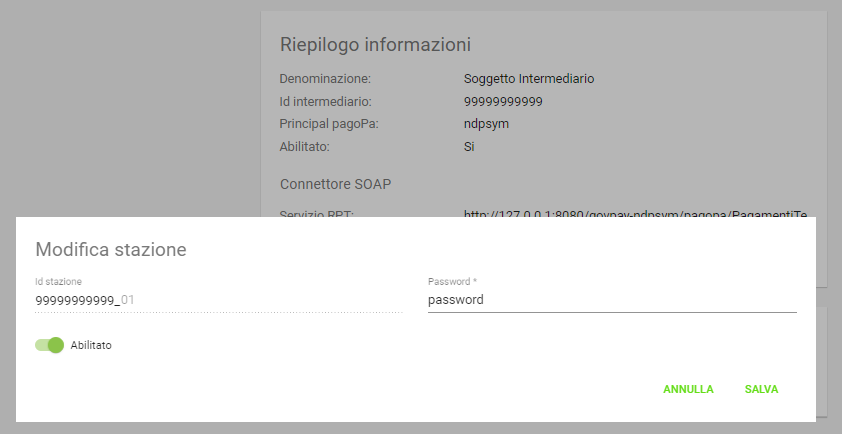
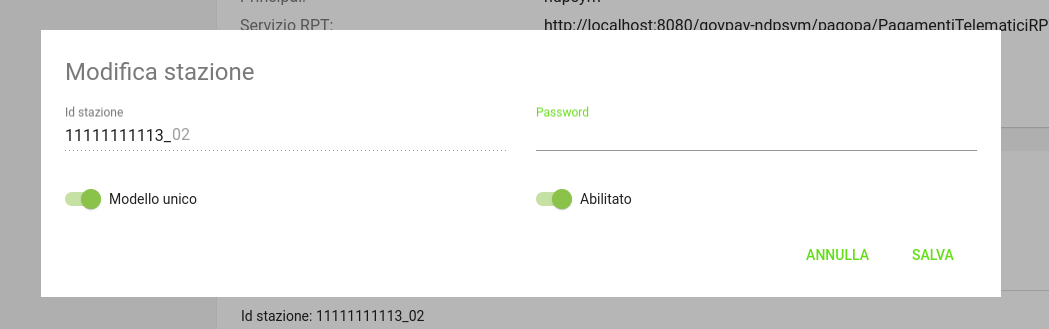
Corretta gestione dei livelli di log per la libreria openspcoop2.utils.transport Sistemati log nella procedura di acquisizione flussi di rendicontazione Aggiornati screenshot configurazione intermediario e stazione.

diff --git a/jars/core/src/main/java/it/govpay/core/business/Rendicontazioni.java b/jars/core/src/main/java/it/govpay/core/business/Rendicontazioni.java
@@ -193,6 +193,7 @@ public class Rendicontazioni {
 		DownloadRendicontazioniResponse response = new DownloadRendicontazioniResponse();
 		GpContext appContext = (GpContext) ctx.getApplicationContext();
 		BDConfigWrapper configWrapper = new BDConfigWrapper(ContextThreadLocal.get().getTransactionId(), true);
+		log.info("Acquisizione dei flussi di rendicontazione in corso...");
 		try {
 			ctx.getApplicationLogger().log("rendicontazioni.acquisizione");
 			DominiBD dominiBD = new DominiBD(ctx.getTransactionId());
@@ -212,7 +213,7 @@ public class Rendicontazioni {
 
 				// La lista deve essere richiesta per dominio visto che pagoPA non garantisce l'univocita globale per idFlusso
 				for(Dominio dominio : lstDomini) { 
-					log.debug(MessageFormat.format("Acquisizione dei flussi di rendicontazione per il dominio [{0}] in corso.",	dominio.getCodDominio()));
+					log.info(MessageFormat.format("Richiesta lista dei flussi di rendicontazione per il dominio [{0}] ...",	dominio.getCodDominio()));
 					List<TipoIdRendicontazione> chiediListaFrResponse = this.chiediListaFr(stazione, dominio, giornale);
 					for(TipoIdRendicontazione i : chiediListaFrResponse)
 						flussiDaPagoPA.add(new RendicontazioneScaricata(i, dominio.getCodDominio()));
@@ -231,7 +232,7 @@ public class Rendicontazioni {
 					if(files.length == 0) 
 						log.debug("Cartella di acquisizione FR vuota");
 					for (File xmlfile : files) {
-						log.info(MessageFormat.format("Trovato Flusso di Rendicontazione da acquisisre su FileSystem: {0}",	xmlfile.getAbsolutePath()));
+						log.info("Trovato Flusso di Rendicontazione da acquisire su FileSystem: {}", xmlfile.getAbsolutePath());
 						FlussoRiversamento flussoRendicontazione = null;
 						try {
 							flussoRendicontazione = JaxbUtils.toFR(FileUtils.readFileToByteArray(xmlfile));
@@ -253,6 +254,7 @@ public class Rendicontazioni {
 				List<RendicontazioneScaricata> flussiDaAcquisire = new ArrayList<>();
 				// Elenco dei riferimenti ai flussi per verificare che la lista da acquisire non abbia duplicati				
 				Set<String> keys = new HashSet<String>();
+				log.info("Verifica esistenza sul db dei flussi da acquisire...");
 				for(RendicontazioneScaricata rnd : flussiDaPagoPA) {
 					TipoIdRendicontazione idRendicontazione = rnd.getIdFlussoRendicontazione();
 					// Controllo che il flusso non sia su db
@@ -282,7 +284,7 @@ public class Rendicontazioni {
 					}
 				}
 				
-				log.info(MessageFormat.format("Individuati {0} flussi di rendicontazione da acquisire", flussiDaAcquisire.size()));
+				log.info("Individuati {} flussi di rendicontazione da acquisire", flussiDaAcquisire.size());
 
 				for(RendicontazioneScaricata rnd : flussiDaAcquisire) {
 					TipoIdRendicontazione idRendicontazione = rnd.getIdFlussoRendicontazione();
@@ -330,7 +332,7 @@ public class Rendicontazioni {
 								}
 								// Errore nella richiesta. Loggo e continuo con il prossimo flusso
 								rnd.getErrori().add(MessageFormat.format("Richiesta al nodo fallita: {0}.", e.getMessage()));
-								log.error(MessageFormat.format("Richiesta flusso rendicontazione [{0}] fallita: {1}", idRendicontazione.getIdentificativoFlusso(), e));
+								log.error(MessageFormat.format("Richiesta flusso rendicontazione [{0}] fallita: {1}", idRendicontazione.getIdentificativoFlusso(), e.getMessage()), e);
 								ctx.getApplicationLogger().log("rendicontazioni.acquisizioneFlussoFail", e.getMessage());
 								continue;
 							} 
@@ -436,7 +438,7 @@ public class Rendicontazioni {
 							Integer indiceDati = dsp.getIndiceDatiSingoloPagamento();
 							BigDecimal importoRendicontato = dsp.getSingoloImportoPagato();
 
-							log.debug(MessageFormat.format("Rendicontato (Esito {0}) per un importo di ({1}) [CodDominio: {2}] [Iuv: {3}][Iur: {4}]",
+							log.info(MessageFormat.format("Rendicontato (Esito {0}) per un importo di ({1}) [CodDominio: {2}] [Iuv: {3}][Iur: {4}]",
 									dsp.getCodiceEsitoSingoloPagamento(), dsp.getSingoloImportoPagato(), codDominio, dsp.getIdentificativoUnivocoVersamento(), iur));
 
 							it.govpay.bd.model.Rendicontazione rendicontazione = new it.govpay.bd.model.Rendicontazione();
@@ -645,12 +647,12 @@ public class Rendicontazioni {
 								if(frEsistente.getDataFlusso().before(fr.getDataFlusso())) {
 									
 									// Flusso su DB vecchio. Lo aggiorno come obsoleto e aggiungo il nuovo
-									log.debug(MessageFormat.format("Trovata versione precedente [{0}] da marcare come obsoleta.", fr.getCodFlusso()));
+									log.info(MessageFormat.format("Trovata versione precedente [{0}] da marcare come obsoleta.", fr.getCodFlusso()));
 									frBD.updateObsoleto(frEsistente.getId(), true);
 									isAggiornamento=true;
 								} else {
 									// Flusso su DB gia' recente. Lascio tutto fare e inserisco quello nuovo come obsoleto.
-									log.debug(MessageFormat.format("Trovata versione successiva [{0}]. Il nuovo flusso viene marcato come obsoleto.", fr.getCodFlusso()));
+									log.info(MessageFormat.format("Trovata versione successiva [{0}]. Il nuovo flusso viene marcato come obsoleto.", fr.getCodFlusso()));
 									fr.setObsoleto(true);
 								}
 							} catch (NotFoundException e) {
@@ -702,15 +704,18 @@ public class Rendicontazioni {
 					}
 				}
 			}
+			
 		} catch(Exception e) {
 			ctx.getApplicationLogger().log("rendicontazioni.acquisizioneFlussiFail", e.getMessage());
 			response.descrizioneEsito=MessageFormat.format("Impossibile acquisire i flussi: {0}", e.getMessage());
+			log.error(MessageFormat.format("Acquisizione dei flussi di rendicontazione in completata con errore: {0}", e.getMessage()), e);
 			throw new GovPayException(e);
 		} finally {
 		}
 		response.descrizioneEsito = MessageFormat.format("Operazione completata: {0} flussi acquisiti", frAcquisiti);
 		if(frNonAcquisiti > 0) response.descrizioneEsito += MessageFormat.format(" e {0}non acquisiti per errori", frNonAcquisiti);
 		ctx.getApplicationLogger().log("rendicontazioni.acquisizioneOk");
+		log.info("Acquisizione dei flussi di rendicontazione in completata.");
 		
 		return response;
 	}
@@ -792,11 +797,13 @@ public class Rendicontazioni {
 				Intermediario intermediario = stazione.getIntermediario(configWrapper);
 				chiediFlussoRendicontazioniClient = new NodoClient(intermediario, null, giornale);
 				popolaDatiPagoPAEvento(chiediFlussoRendicontazioniClient.getEventoCtx(), intermediario, stazione, dominio, null);
+				log.debug(MessageFormat.format("Richiesta elenco flussi rendicontazione per il dominio [{0}] al nodo in corso...", dominio.getCodDominio()));
 				risposta = chiediFlussoRendicontazioniClient.nodoChiediElencoFlussiRendicontazione(richiesta, intermediario.getDenominazione());
 				chiediFlussoRendicontazioniClient.getEventoCtx().setEsito(Esito.OK);
+				log.debug(MessageFormat.format("Richiesta elenco flussi rendicontazione per il dominio [{0}] al nodo completata.", dominio.getCodDominio()));
 			} catch (Exception e) {
 				// Errore nella richiesta. Loggo e continuo con il prossimo psp
-				log.error("Richiesta elenco flussi rendicontazione fallita", e);
+				log.error(MessageFormat.format("Richiesta elenco flussi rendicontazione per il dominio [{0}] al nodo completata con errore {1}.", dominio.getCodDominio(), e.getMessage()), e);
 				ctx.getApplicationLogger().log("rendicontazioni.acquisizioneFlussiFail", e.getMessage());
 				if(chiediFlussoRendicontazioniClient != null) {
 					if(e instanceof GovPayException) {
@@ -815,7 +822,7 @@ public class Rendicontazioni {
 
 			if(risposta.getFault() != null) {
 				// Errore nella richiesta. Loggo e continuo con il prossimo psp
-				log.warn(MessageFormat.format("Richiesta elenco flussi rendicontazione fallita: {0} {1}", risposta.getFault().getFaultCode(), risposta.getFault().getFaultString()));
+				log.warn(MessageFormat.format("Richiesta elenco flussi rendicontazione per il dominio [{0}] fallita: {1} {2}", dominio.getCodDominio(), risposta.getFault().getFaultCode(), risposta.getFault().getFaultString()));
 				ctx.getApplicationLogger().log("rendicontazioni.acquisizioneFlussiKo", risposta.getFault().getFaultCode() + " " + risposta.getFault().getFaultString());
 				if(chiediFlussoRendicontazioniClient != null) {
 					chiediFlussoRendicontazioniClient.getEventoCtx().setSottotipoEsito(risposta.getFault().getFaultCode());
@@ -826,14 +833,14 @@ public class Rendicontazioni {
 			} else {
 
 				if(risposta.getElencoFlussiRendicontazione() == null || risposta.getElencoFlussiRendicontazione().getTotRestituiti() == 0) {
-					log.debug("Ritornata lista vuota dal psp");
+					log.info(MessageFormat.format("Richiesta elenco flussi rendicontazione per il dominio [{0}]: ritornata lista vuota dal psp", dominio.getCodDominio()));
 					ctx.getApplicationLogger().log("rendicontazioni.acquisizioneFlussiOk", "0");
 					return flussiDaAcquisire;
 				}
 
 				ctx.getApplicationLogger().log("rendicontazioni.acquisizioneFlussiOk", risposta.getElencoFlussiRendicontazione().getTotRestituiti() + "");
-				log.debug(MessageFormat.format("Ritornati {0} flussi rendicontazione", risposta.getElencoFlussiRendicontazione().getTotRestituiti()));
-
+				log.info(MessageFormat.format("Richiesta elenco flussi rendicontazione per il dominio [{0}]: ritornati {1} flussi.", dominio.getCodDominio(), risposta.getElencoFlussiRendicontazione().getTotRestituiti()));
+				
 				for(TipoIdRendicontazione idRendicontazione : risposta.getElencoFlussiRendicontazione().getIdRendicontazione()) {
 					log.debug(MessageFormat.format("Ricevuto flusso rendicontazione: {0}, {1}", idRendicontazione.getIdentificativoFlusso(), idRendicontazione.getDataOraFlusso()));
 					flussiDaAcquisire.add(idRendicontazione);
